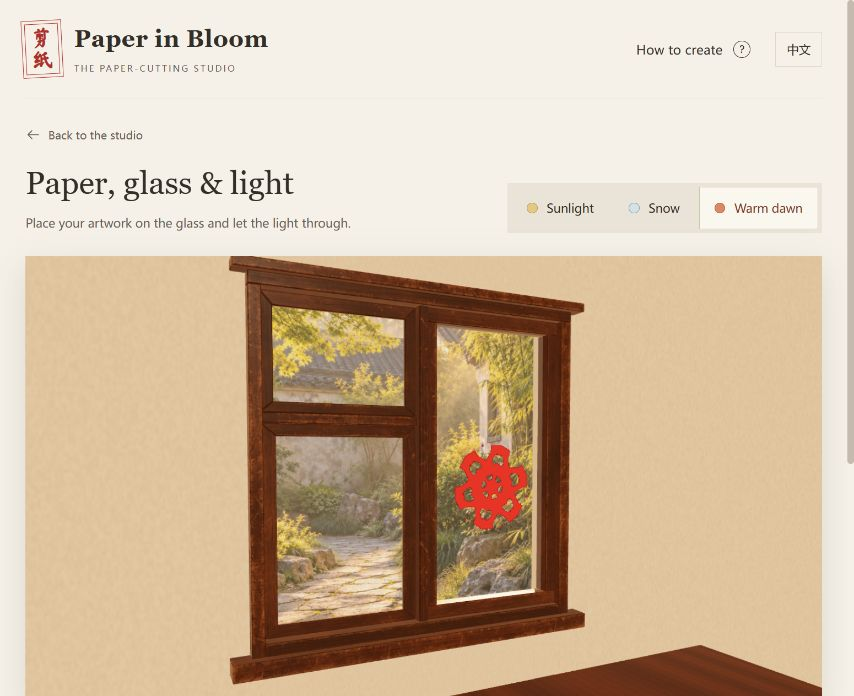
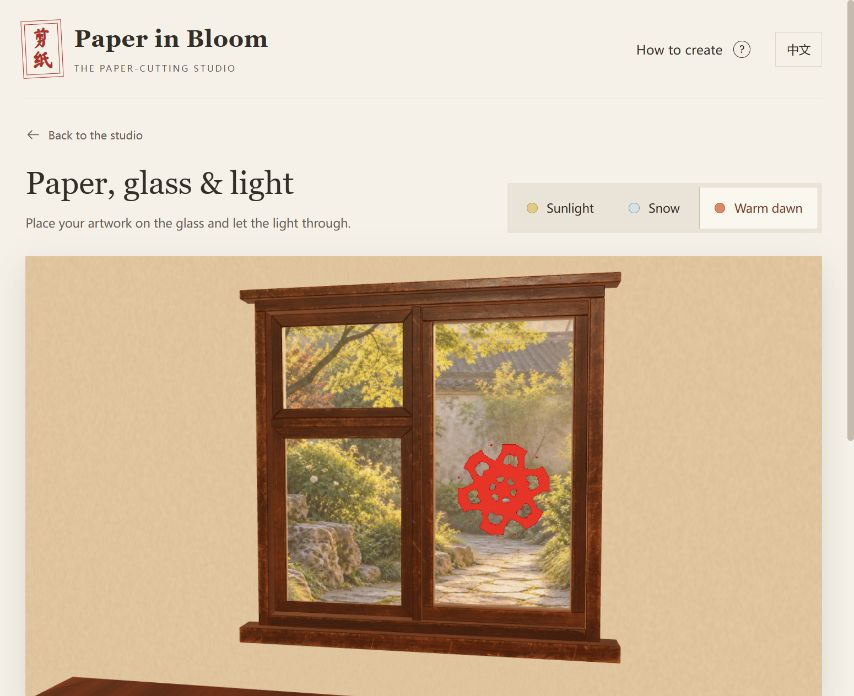
Animate a lightweight garden breeze with pause and visibility controls

Changed region(s): [[0.0304, 0.3621, 0.9742, 1.0], [0.9742, 0.6336, 1.0, 0.6638]]

diff --git a/dist/window-3d.js b/dist/window-3d.js
@@ -16,7 +16,7 @@ export async function createWindow3D(stage, artwork, onMove) {
   const scene=new THREE.Scene();
   const camera=new THREE.PerspectiveCamera(43,1,.1,90);
   const room=new THREE.Group();scene.add(room);
-  let active=false,mode='sunlight',angle=9,raf=0,drag=null,disposed=false;
+  let active=false,mode='sunlight',angle=9,raf=0,drag=null,disposed=false,inView=true,motionEnabled=true,dirty=true;
   const reduced=matchMedia('(prefers-reduced-motion: reduce)');
   let seed=2718;
   function random(){seed=(seed*1664525+1013904223)>>>0;return seed/4294967296;}
@@ -68,6 +68,28 @@ export async function createWindow3D(stage, artwork, onMove) {
     texture.anisotropy=Math.min(8,renderer.capabilities.getMaxAnisotropy());texture.needsUpdate=true;return [key,texture];
   }));
   const gardenMaterial=new THREE.MeshBasicMaterial({map:gardenTextures.sunlight,toneMapped:false,fog:false});
+  const breeze={time:{value:0},strength:{value:1}};
+  gardenMaterial.onBeforeCompile=shader=>{
+    shader.uniforms.breezeTime=breeze.time;shader.uniforms.breezeStrength=breeze.strength;
+    shader.fragmentShader='uniform float breezeTime;\nuniform float breezeStrength;\n'+shader.fragmentShader;
+    shader.fragmentShader=shader.fragmentShader.replace('#include <map_fragment>',`
+      #ifdef USE_MAP
+        vec2 uv=vMapUv;
+        float canopy=(1.0-smoothstep(0.30,0.46,uv.x))*smoothstep(0.52,0.72,uv.y);
+        float upperLeaves=smoothstep(0.86,0.98,uv.y);
+        float bamboo=smoothstep(0.78,0.94,uv.x)*smoothstep(0.15,0.40,uv.y);
+        float shrubs=(1.0-smoothstep(0.18,0.32,uv.x))*smoothstep(0.18,0.30,uv.y)*(1.0-smoothstep(0.48,0.60,uv.y));
+        float plants=max(max(canopy,upperLeaves),max(bamboo,shrubs));
+        float gust=0.65+0.35*sin(breezeTime*0.37);
+        float sway=sin(breezeTime*1.25+uv.y*5.0)+0.25*sin(breezeTime*2.1+uv.x*8.0);
+        vec2 offset=vec2(sway*0.0045,sin(breezeTime*1.1+uv.x*9.0)*0.0012);
+        offset+=vec2(sin(breezeTime*3.0+uv.y*90.0)*0.00035,0.0);
+        uv+=offset*plants*gust*breezeStrength;
+        diffuseColor*=texture2D(map,clamp(uv,0.001,0.999));
+      #endif
+    `);
+  };
+  gardenMaterial.customProgramCacheKey=()=> 'garden-breeze-v1';
   const garden=new THREE.Mesh(new THREE.PlaneGeometry(14,28/3),gardenMaterial);
   garden.position.set(0,0,-5);scene.add(garden);
   const snowPositions=new Float32Array(600*3);
@@ -101,16 +123,23 @@ export async function createWindow3D(stage, artwork, onMove) {
   renderer.domElement.addEventListener('pointermove',e=>{if(!drag||drag.id!==e.pointerId||!locate(e))return;onMove(((hit.x+drag.dx)/4.3+.5)*100,(.5-(hit.y+drag.dy)/3.2)*100);});
   function stopDrag(){drag=null;renderer.domElement.style.cursor='grab';}renderer.domElement.addEventListener('pointerup',stopDrag);renderer.domElement.addEventListener('pointercancel',stopDrag);renderer.domElement.addEventListener('lostpointercapture',stopDrag);
   let last=0;
-  function frame(now){raf=0;if(!active||disposed||document.hidden)return;const dt=Math.min((now-last)/1000,.05);last=now;
-    if(mode==='snow'&&!reduced.matches){for(let i=0;i<snowPositions.length;i+=3){snowPositions[i+1]-=dt*(.35+(i%7)*.07);snowPositions[i]+=Math.sin(now*.0003+i)*dt*.06;if(snowPositions[i+1]<-3)snowPositions[i+1]=6;}snowGeometry.attributes.position.needsUpdate=true;}
-    renderer.render(scene,camera);if(mode==='snow'&&!reduced.matches)raf=requestAnimationFrame(frame);
+  function frame(now){raf=0;if(!active||disposed||document.hidden||!inView)return;
+    const moving=motionEnabled;
+    if(!dirty&&moving&&now-last<1000/30){raf=requestAnimationFrame(frame);return;}
+    const dt=Math.min((now-last)/1000,.05);last=now;dirty=false;
+    if(moving)breeze.time.value+=dt;
+    breeze.strength.value=mode==='snow'?.6:1;
+    if(mode==='snow'&&moving){for(let i=0;i<snowPositions.length;i+=3){snowPositions[i+1]-=dt*(.35+(i%7)*.07);snowPositions[i]+=Math.sin(breeze.time.value*.3+i)*dt*.06;if(snowPositions[i+1]<-3)snowPositions[i+1]=6;}snowGeometry.attributes.position.needsUpdate=true;}
+    renderer.render(scene,camera);if(moving)raf=requestAnimationFrame(frame);
   }
-  function requestRender(){if(active&&!raf&&!disposed)raf=requestAnimationFrame(frame);}
+  function requestRender(){dirty=true;if(active&&!raf&&!disposed)raf=requestAnimationFrame(frame);}
+  function setMotion(enabled){motionEnabled=enabled;last=performance.now();requestRender();}
+  const visibilityObserver=new IntersectionObserver(entries=>{inView=entries[0].isIntersecting;last=performance.now();requestRender();});visibilityObserver.observe(stage);
   const observer=new ResizeObserver(resize);observer.observe(stage);
   reduced.addEventListener('change',requestRender);
   document.addEventListener('visibilitychange',requestRender);
   renderer.domElement.addEventListener('webglcontextlost',e=>{e.preventDefault();active=false;cancelAnimationFrame(raf);raf=0;stage.classList.remove('has-3d');stage.dispatchEvent(new Event('previewfallback'));});
   renderer.domElement.addEventListener('webglcontextrestored',()=>{stage.classList.add('has-3d');active=!document.querySelector('#window-preview').hidden;paperTexture.needsUpdate=true;requestRender();});
   stage.append(renderer.domElement);stage.classList.add('has-3d');
-  return {setLight,setPlacement,setAngle,async prepare(){resize();await renderer.compileAsync(scene,camera);},refresh(){paperTexture.needsUpdate=true;renderer.shadowMap.needsUpdate=true;requestRender();},start(){active=true;last=performance.now();resize();requestRender();},stop(){active=false;drag=null;cancelAnimationFrame(raf);raf=0;},dispose(){disposed=true;observer.disconnect();reduced.removeEventListener('change',requestRender);document.removeEventListener('visibilitychange',requestRender);cancelAnimationFrame(raf);scene.traverse(obj=>{obj.geometry?.dispose();if(obj.material){for(const mat of Array.isArray(obj.material)?obj.material:[obj.material])mat.dispose();}});woodMap.dispose();plasterMap.dispose();paperTexture.dispose();for(const texture of Object.values(gardenTextures))texture.dispose();for(const env of environments.values())env.dispose();renderer.dispose();renderer.domElement.remove();}};
+  return {setLight,setPlacement,setAngle,setMotion,async prepare(){resize();await renderer.compileAsync(scene,camera);},refresh(){paperTexture.needsUpdate=true;renderer.shadowMap.needsUpdate=true;requestRender();},start(){active=true;last=performance.now();resize();requestRender();},stop(){active=false;drag=null;cancelAnimationFrame(raf);raf=0;},dispose(){disposed=true;observer.disconnect();visibilityObserver.disconnect();reduced.removeEventListener('change',requestRender);document.removeEventListener('visibilitychange',requestRender);cancelAnimationFrame(raf);scene.traverse(obj=>{obj.geometry?.dispose();if(obj.material){for(const mat of Array.isArray(obj.material)?obj.material:[obj.material])mat.dispose();}});woodMap.dispose();plasterMap.dispose();paperTexture.dispose();for(const texture of Object.values(gardenTextures))texture.dispose();for(const env of environments.values())env.dispose();renderer.dispose();renderer.domElement.remove();}};
 }

diff --git a/dist/window-preview.js b/dist/window-preview.js
@@ -14,13 +14,19 @@ export function createWindowPreview(renderArt) {
   let light='sunlight',x=73,y=58,size=62,drag=null,previousScroll=0;
   let scene3D=null,loading3D=null,gardenImages=null;
   const angleInput=document.querySelector('#window-angle');
+  const motionButton=document.querySelector('#window-motion');
+  const motionPreference=matchMedia('(prefers-reduced-motion: reduce)');
+  let motionEnabled=!motionPreference.matches;
+  function updateMotion(){motionButton.setAttribute('aria-pressed',String(motionEnabled));motionButton.textContent=t(motionEnabled?'暂停微风':'开启微风');stage.dataset.motion=String(motionEnabled);scene3D?.setMotion(motionEnabled);}
+  motionButton.addEventListener('click',()=>{motionEnabled=!motionEnabled;updateMotion();});
+  motionPreference.addEventListener('change',()=>{motionEnabled=!motionPreference.matches;updateMotion();});updateMotion();
   async function load3D(){
     if(scene3D){scene3D.refresh();scene3D.start();return;}
     if(loading3D)return loading3D;
     document.querySelector('#window-render-status').textContent=t('正在准备三维光影…');
     loading3D=import('./window-3d.js').then(async ({createWindow3D})=>{
       scene3D=await createWindow3D(stage,art,(nextX,nextY)=>{x=nextX;y=nextY;position();});
-      scene3D.setLight(light);scene3D.setAngle(+angleInput.value);position();scene3D.refresh();
+      scene3D.setLight(light);scene3D.setAngle(+angleInput.value);updateMotion();position();scene3D.refresh();
       await scene3D.prepare();
       if(!panel.hidden)scene3D.start();
       document.querySelector('#window-render-status').textContent=t('三维实景 · 拖动剪纸或调整视角');

diff --git a/dist/index.html b/dist/index.html
@@ -85,6 +85,7 @@
       </div>
       <div class="window-controls"><p><svg><use href="#i-window"/></svg><span>拖动剪纸，找到喜欢的位置；方向键也能移动。</span></p><div class="window-sizing"><label for="window-size">剪纸大小</label><input id="window-size" type="range" min="25" max="90" value="62"><output id="window-size-value" for="window-size">62%</output><button id="window-center" class="text-button">重新居中</button></div></div>
       <div class="window-camera" hidden><label for="window-angle">观察角度</label><input id="window-angle" type="range" min="-25" max="25" value="9"><output id="window-angle-value" for="window-angle">9°</output></div>
+      <button id="window-motion" class="text-button window-motion" aria-pressed="true">暂停微风</button>
       <p id="window-render-status" class="render-status" role="status"></p>
       <p class="window-caption" id="window-caption" role="status">阳光穿过窗，照亮剪纸的每一处细节。</p>
       <p class="model-credit"><span>窗模型</span> · <a href="https://sketchfab.com/3d-models/window--wooden-8-mb-ef344b45b2ce42ef9f96c0d7fdf3c560" target="_blank" rel="noopener">Mehdi Shahsavan</a> · <a href="https://creativecommons.org/licenses/by/4.0/" target="_blank" rel="noopener">CC BY 4.0</a></p>

diff --git a/dist/window-preview.css b/dist/window-preview.css
@@ -38,3 +38,4 @@ html:lang(en) #window-heading{font-family:Georgia,serif;letter-spacing:0;font-si
 @media(max-width:600px){.window-preview{padding-top:20px}.window-heading-row{gap:15px;margin-bottom:17px}#window-heading,html:lang(en) #window-heading{font-size:27px}.window-heading-row p{font-size:11px}.light-options{width:100%;gap:0}.light-options button{flex:1;padding:10px 7px;font-size:11px;gap:7px}.window-scene{aspect-ratio:4/5;min-height:0;max-height:none}.window-glass{inset:4% 5% 8%}.window-frame .frame-rail{width:8px}.window-frame .frame-crossbar{height:7px}.window-frame{box-shadow:inset 0 0 0 7px var(--wood-dark),inset 0 0 0 9px var(--wood-edge)}.window-controls{padding-top:17px}.window-controls p{font-size:11px}.window-sizing{gap:7px;font-size:11px}.window-sizing input{width:80px;min-width:0}.window-caption{font-size:12px;margin-top:17px}.window-preview-button{font-size:11px}}
 @media(prefers-reduced-motion:reduce){.snowfall i{animation:none;top:calc(var(--x) * .8);transform:none}.snowfall,#window-art{transition:none}}
 .model-credit{text-align:center;font-size:11px;color:var(--muted);margin:14px 0 0}.model-credit a{color:inherit;text-underline-offset:3px}
+.window-motion{display:block;margin:14px auto 0}.window-scene[data-motion="false"] .snowfall i{animation-play-state:paused}

diff --git a/dist/i18n.js b/dist/i18n.js
@@ -4,7 +4,7 @@ const translations = new Map([
   ['三维实景 · 拖动剪纸或调整视角', '3D window · Drag your cutting or change the viewing angle'],
   ['此设备暂不支持三维，已显示平面预览', '3D is unavailable on this device. Showing the flat preview.'],
   ['贴上窗，看看光影', 'Try it on a window'],
-  ['回到剪纸台', 'Back to the studio'], ['纸映窗间', 'Paper, glass & light'], ['窗模型', 'Window model'],
+  ['回到剪纸台', 'Back to the studio'], ['纸映窗间', 'Paper, glass & light'], ['窗模型', 'Window model'], ['暂停微风', 'Pause breeze'], ['开启微风', 'Resume breeze'],
   ['把心意贴上窗，让光穿过你的剪纸。', 'Place your artwork on the glass and let the light through.'],
   ['选择窗外光线', 'Choose the light outside'], ['阳光', 'Sunlight'], ['雪景', 'Snow'], ['暖色晨曦', 'Warm dawn'],
   ['窗上的剪纸，可拖动或使用方向键移动', 'Your paper cutting on the window. Drag or use arrow keys to move it.'],

diff --git a/README.md b/README.md
@@ -12,6 +12,6 @@ After revealing your cutting, choose **Try it on a window**. Switch between sunl
 
 The 3D scene uses the supplied wooden window model with its embedded wood and roughness textures, recessed plaster wall, glass, garden, directional shadows through the cutting, and an adjustable viewing angle. Window model: **Mehdi Shahsavan**, [CC BY 4.0](https://creativecommons.org/licenses/by/4.0/); see `dist/models/ATTRIBUTION.md` for source and runtime adaptations. The original 2.36 MB GLB is unchanged. A flat preview remains available if the model or WebGL cannot load. The exterior uses three AI-generated photographic garden backdrops (sunlight, warm dawn, snow) behind the 3D frame. These are fixed photographic surfaces, not a fully modeled walkable garden. Snowflakes remain real-time 3D particles. See `dist/scenery/PROMPTS.md` for asset provenance.
 
-Performance: the model loads only when the preview is opened and is reused thereafter. Lighting environments are cached per mode, shaders are prepared before display, and sunlight/dawn render only on changes. Snow uses one particle draw, and the photographic garden uses a single textured surface. Shadow maps update only when light or artwork changes. Pixel density is capped at 1.7; animation pauses when the preview or browser tab is hidden. No extra animation framework is required. Three.js GLTFLoader handles the current uncompressed asset; KTX2Loader or MeshoptDecoder would only be useful after converting assets to those formats.
+Performance: the model loads only when the preview is opened and is reused thereafter. Lighting environments are cached per mode, shaders are prepared before display, and the garden breeze is capped at 30 frames per second, with immediate redraws for interactions. Snow uses one particle draw, and the photographic garden uses a single textured surface. Shadow maps update only when light or artwork changes. Pixel density is capped at 1.7; animation pauses when the preview is offscreen, closed, or the browser tab is hidden. A bilingual pause/resume button stops both the breeze and snowfall. Reduced-motion preferences start the scene still; users can explicitly resume. The breeze is a subtle foliage-area image displacement, not recorded footage or simulated individual leaves. There are no streaming requests or additional video-hosting costs. No extra animation framework is required. Three.js GLTFLoader handles the current uncompressed asset; KTX2Loader or MeshoptDecoder would only be useful after converting assets to those formats.
 
 Three.js and its license are vendored in `dist/vendor`, so serving the site needs no package installation. To update these files, run `npm ci` then `npm run vendor`. Run `npm run check` for JavaScript syntax validation and `npm run validate` to check static references, the GLB, and all three JPEGs. The GitHub workflow runs these commands on each configured Node version; there is no `npm test` command in this static project. The `dist` directory is the complete static website.
